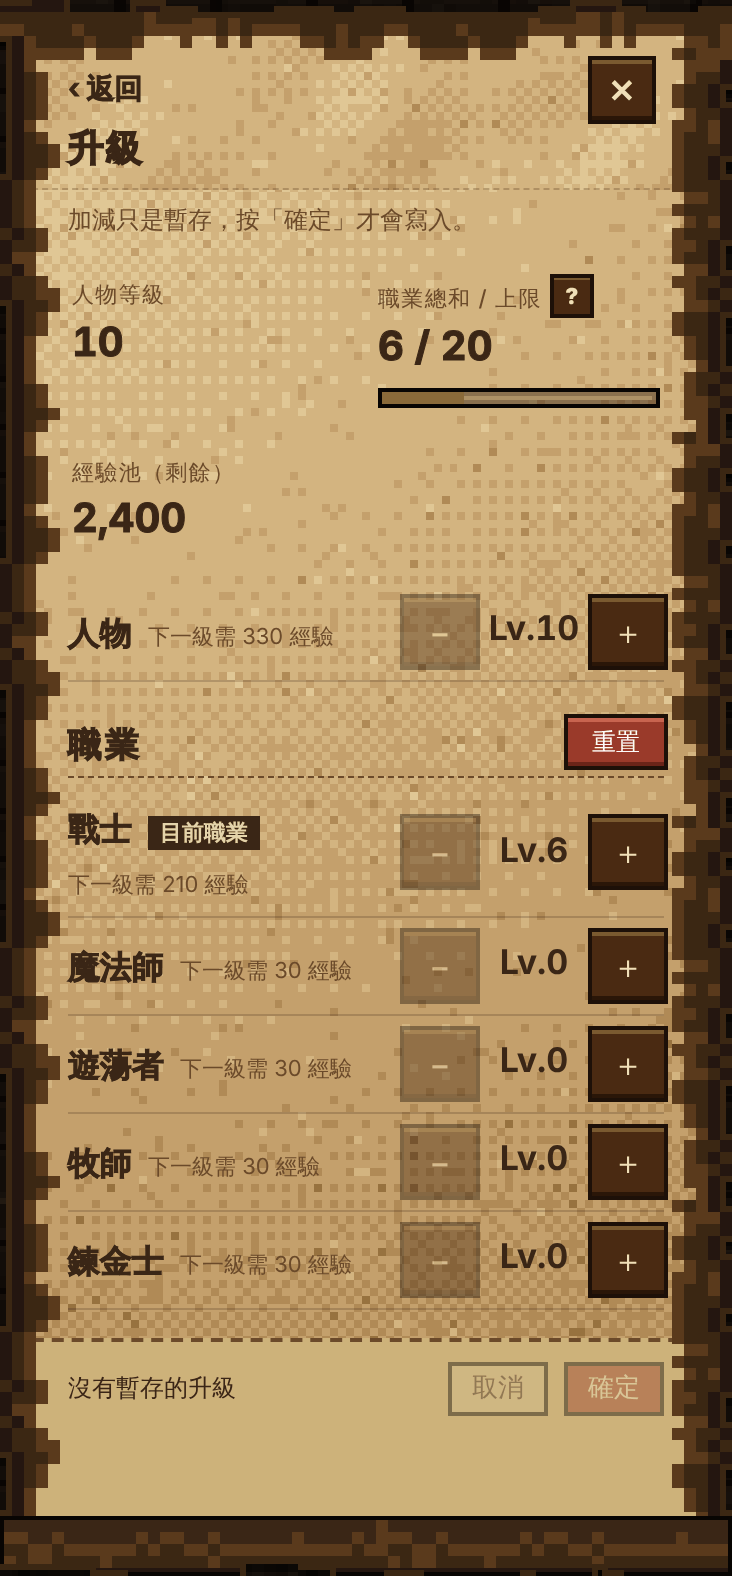
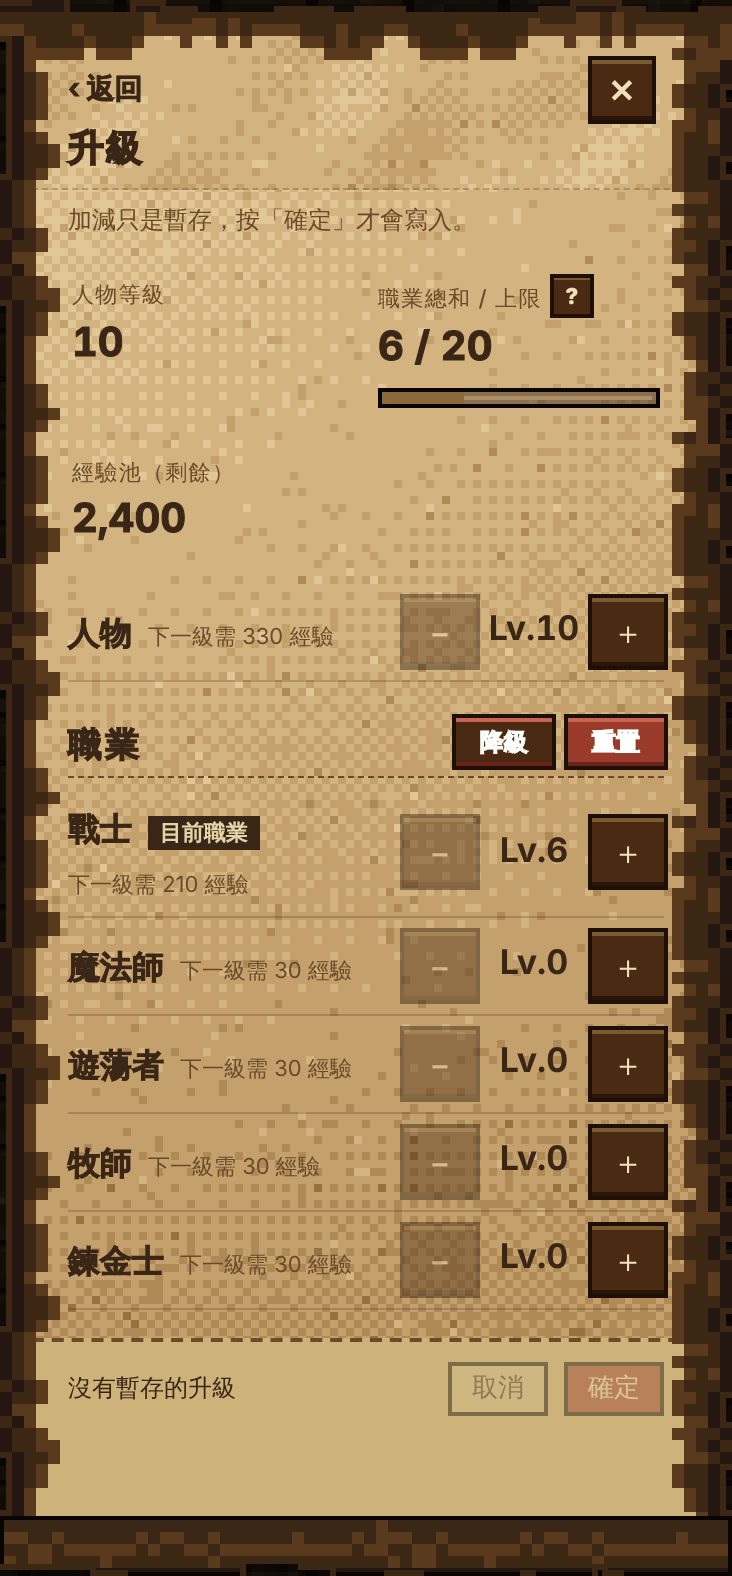
角色頁導覽：重新擷取升級頁（含降級按鈕）並補上降級說明
Claude-Session: https://claude.ai/code/session_019AjetoHBUzNNZUvoSfpCgP

Changed region(s): [[0.6011, 0.4353, 0.7814, 0.4975], [0.8115, 0.4353, 0.8716, 0.4975]]

diff --git a/character/index.html b/character/index.html
@@ -934,9 +934,9 @@ Promise.all(['job_info.csv','job_attribute.csv','job_level_up.csv','weapon_info.
 }).catch(function(e){var m=$('loading');m.textContent='資料載入失敗：'+(e.code||e.message);m.classList.add('err')});
 })();
 /* ===== 角色頁導覽：右上角問號；第一次進來自動開一次（記在瀏覽器） ===== */
-var HELP=[{"t":"角色頁總覽","d":"角色頁帳篷裡的五個物件，點了就會打開對應的功能（下方按鈕也可以）。","it":["<b>公會證（升級職業）</b>：可以在此處提升人物的角色和職業等級；當人物達到職業需求的職業等級，可以進行轉職（沒有限制人物可轉的職業數量）","<b>武器架（更換武器）</b>：可以在此處切換角色裝備的武器","<b>人物誌（屬性）</b>：可以查看人物的屬性，並能提升五項基礎屬性的配置","<b>鏡子（外觀）</b>：可在此處更換你的外觀；當你轉成該職業後即可獲得該職業外觀","<b>技能書（技能）</b>：可在此處設置人物可使用的職業技能組、反應技能、被動技能和自動模式下的技能循環"],"img":"char_1.png","bx":[[1,29.23,10.71,13.84,11.43],[2,1.54,33.57,27.69,29.29],[3,46.15,57.14,14.61,10],[4,53.84,11.43,20.77,35],[5,76.15,40,18.46,11.43]]},{"t":"公會證","d":"可以在此處提升人物的角色和職業等級；當人物達到職業需求的職業等級，可以進行轉職（沒有限制人物可轉的職業數量）。","it":["人物等級、職業等級總和／上限，以及經驗池（人物和職業共用同一個經驗池）","目前的職業和職業等級","按「升級」提升等級，按「轉職」更換職業"],"img":"char_2.png","bx":[[1,8.47,30.7,83.06,22.64],[2,8.47,59.28,83.06,7.49],[3,8.47,86.73,83.06,7.9]]},{"t":"公會證：升級","d":"從經驗池扣經驗來升級人物或職業。","it":["人物等級：用 −／＋ 調整要升幾級，左邊會顯示下一級需要多少經驗","職業等級：每個職業分開升級；職業等級總和不能超過人物等級的 2 倍","按「確定」才會扣經驗、正式升級；按「取消」放棄這次的調整"],"img":"char_3.png","bx":[[1,8.47,36.68,83.06,6.98],[2,8.47,49.75,83.06,33.69],[3,60.38,85.98,31.15,4.25]]},{"t":"公會證：轉職","d":"達到條件就能轉職，轉職沒有次數限制，也不會失去已經練好的職業等級。","it":["點選職業可以預覽角色穿上該職業的樣子","基礎職業：顯示「可轉職」就能直接轉","一轉職業：要先把需求的職業練到指定等級，沒達到會顯示「未達成」","轉職樹：查看所有職業的轉職路線和條件"],"img":"char_4.png","bx":[[1,8.47,16.26,83.06,18.04],[2,8.47,38.94,83.06,14.09],[3,8.47,57.68,83.06,35.64],[4,21.63,7.64,19.13,3.81]]},{"t":"武器架","d":"可以在此處切換角色裝備的武器。","it":["目前裝備中的武器，顯示等級、數值和附魔的符文","按「裝備」就能換成這把武器","灰色「不可用」的武器，目前的職業不能裝備"],"img":"char_5.png","bx":[[1,8.47,9.19,83.06,10.35],[2,8.47,18.99,83.06,10.35],[3,8.47,28.79,83.06,10.35]]},{"t":"人物誌","d":"可以查看人物的屬性，並能提升五項基礎屬性的配置。","it":["用 −／＋ 把自由點數分配到力量、智力、敏捷、體質、幸運","點屬性名稱可以看這項數值是從哪裡加來的","「重置」把已經配好的點數全部退回重配","加減只是暫存，按「確定」才會生效"],"img":"char_6.png","bx":[[1,62.62,11.97,28.91,15.66],[2,8.47,11.81,53.06,2.79],[3,76.78,8.73,14.75,2.2],[4,60.38,91.9,31.15,2.46]]},{"t":"鏡子","d":"可在此處更換你的外觀；當你轉成該職業後即可獲得該職業外觀。","it":["鏡子裡即時預覽換上的樣子","選擇衣服、髮型、髮色、膚色、眼色；還沒解鎖的也能預覽，但不能儲存","按「儲存」換上新外觀，「還原」回到目前的外觀"],"img":"char_7.png","bx":[[1,1.37,8.53,60.66,76.81],[2,62.57,8.53,36.07,67.35],[3,1.37,85.9,97.27,8.72]]},{"t":"技能書","d":"可在此處設置人物可使用的職業技能組、反應技能、被動技能和自動模式下的技能循環。","it":["技能組：現職技能組＋最多兩組額外技能組，決定戰鬥中能用哪些主動技能","戰鬥技能：自動戰鬥時依序循環施放，用 ▲▼ 調整順序（只能放上方技能組裡的技能）","反應技能：敵人對你使用傷害技能時有機率觸發","被動技能：人物 Lv1／30／60／90 依序開放格子；按「儲存」後從下一場戰鬥開始生效"],"img":"char_8.png","bx":[[1,8.47,19.78,83.06,10.52],[2,8.47,38.56,83.06,19.87],[3,8.47,61.35,83.06,4.97],[4,8.47,69.24,83.06,19.87]]}],helpI=0;
+var HELP=[{"t":"角色頁總覽","d":"角色頁帳篷裡的五個物件，點了就會打開對應的功能（下方按鈕也可以）。","it":["<b>公會證（升級職業）</b>：可以在此處提升人物的角色和職業等級；當人物達到職業需求的職業等級，可以進行轉職（沒有限制人物可轉的職業數量）","<b>武器架（更換武器）</b>：可以在此處切換角色裝備的武器","<b>人物誌（屬性）</b>：可以查看人物的屬性，並能提升五項基礎屬性的配置","<b>鏡子（外觀）</b>：可在此處更換你的外觀；當你轉成該職業後即可獲得該職業外觀","<b>技能書（技能）</b>：可在此處設置人物可使用的職業技能組、反應技能、被動技能和自動模式下的技能循環"],"img":"char_1.png","bx":[[1,29.23,10.71,13.84,11.43],[2,1.54,33.57,27.69,29.29],[3,46.15,57.14,14.61,10],[4,53.84,11.43,20.77,35],[5,76.15,40,18.46,11.43]]},{"t":"公會證","d":"可以在此處提升人物的角色和職業等級；當人物達到職業需求的職業等級，可以進行轉職（沒有限制人物可轉的職業數量）。","it":["人物等級、職業等級總和／上限，以及經驗池（人物和職業共用同一個經驗池）","目前的職業和職業等級","按「升級」提升等級，按「轉職」更換職業"],"img":"char_2.png","bx":[[1,8.47,30.7,83.06,22.64],[2,8.47,59.28,83.06,7.49],[3,8.47,86.73,83.06,7.9]]},{"t":"公會證：升級／降級","d":"從經驗池扣經驗來升級人物或職業；點錯了也可以單獨把某個職業降級，退還經驗。","it":["人物等級：用 −／＋ 調整要升幾級，左邊會顯示下一級需要多少經驗","職業等級：每個職業分開升級；職業等級總和不能超過人物等級的 2 倍","按「確定」會先列出這次的變動再確認一次，按「確定升級」才會扣經驗；按「取消」放棄這次的調整","降級：按「降級」進入降級模式，用 − 選要降到幾級，按「確定降級」退還那幾級花的經驗，其他職業不受影響；目前職業最低 Lv1，已轉職的職業需要的等級不能降（例如大劍師需要戰士 Lv20）"],"img":"char_3.png","bx":[[1,8.47,36.68,83.06,6.98],[2,8.47,49.75,83.06,33.69],[3,60.38,85.98,31.15,4.25],[4,61.48,45.18,14.75,3.81]]},{"t":"公會證：轉職","d":"達到條件就能轉職，轉職沒有次數限制，也不會失去已經練好的職業等級。","it":["點選職業可以預覽角色穿上該職業的樣子","基礎職業：顯示「可轉職」就能直接轉","一轉職業：要先把需求的職業練到指定等級，沒達到會顯示「未達成」","轉職樹：查看所有職業的轉職路線和條件"],"img":"char_4.png","bx":[[1,8.47,16.26,83.06,18.04],[2,8.47,38.94,83.06,14.09],[3,8.47,57.68,83.06,35.64],[4,21.63,7.64,19.13,3.81]]},{"t":"武器架","d":"可以在此處切換角色裝備的武器。","it":["目前裝備中的武器，顯示等級、數值和附魔的符文","按「裝備」就能換成這把武器","灰色「不可用」的武器，目前的職業不能裝備"],"img":"char_5.png","bx":[[1,8.47,9.19,83.06,10.35],[2,8.47,18.99,83.06,10.35],[3,8.47,28.79,83.06,10.35]]},{"t":"人物誌","d":"可以查看人物的屬性，並能提升五項基礎屬性的配置。","it":["用 −／＋ 把自由點數分配到力量、智力、敏捷、體質、幸運","點屬性名稱可以看這項數值是從哪裡加來的","「重置」把已經配好的點數全部退回重配","加減只是暫存，按「確定」才會生效"],"img":"char_6.png","bx":[[1,62.62,11.97,28.91,15.66],[2,8.47,11.81,53.06,2.79],[3,76.78,8.73,14.75,2.2],[4,60.38,91.9,31.15,2.46]]},{"t":"鏡子","d":"可在此處更換你的外觀；當你轉成該職業後即可獲得該職業外觀。","it":["鏡子裡即時預覽換上的樣子","選擇衣服、髮型、髮色、膚色、眼色；還沒解鎖的也能預覽，但不能儲存","按「儲存」換上新外觀，「還原」回到目前的外觀"],"img":"char_7.png","bx":[[1,1.37,8.53,60.66,76.81],[2,62.57,8.53,36.07,67.35],[3,1.37,85.9,97.27,8.72]]},{"t":"技能書","d":"可在此處設置人物可使用的職業技能組、反應技能、被動技能和自動模式下的技能循環。","it":["技能組：現職技能組＋最多兩組額外技能組，決定戰鬥中能用哪些主動技能","戰鬥技能：自動戰鬥時依序循環施放，用 ▲▼ 調整順序（只能放上方技能組裡的技能）","反應技能：敵人對你使用傷害技能時有機率觸發","被動技能：人物 Lv1／30／60／90 依序開放格子；按「儲存」後從下一場戰鬥開始生效"],"img":"char_8.png","bx":[[1,8.47,19.78,83.06,10.52],[2,8.47,38.56,83.06,19.87],[3,8.47,61.35,83.06,4.97],[4,8.47,69.24,83.06,19.87]]}],helpI=0;
 function helpRender(){var o=document.getElementById('helpov');if(!o)return;var P=HELP[helpI];
-  var h='<div class="hpn" role="dialog" aria-modal="true" aria-label="角色頁導覽"><div class="hhd"><b>'+P.t+'</b><small>'+(helpI+1)+' / '+HELP.length+'</small><button type="button" data-h="x" aria-label="關閉">✕</button></div><div class="hbd" id="hbd"><p class="hd">'+P.d+'</p><div class="hfig"><img alt="" src="'+'../assets/help/'+P.img+'?v=1">';
+  var h='<div class="hpn" role="dialog" aria-modal="true" aria-label="角色頁導覽"><div class="hhd"><b>'+P.t+'</b><small>'+(helpI+1)+' / '+HELP.length+'</small><button type="button" data-h="x" aria-label="關閉">✕</button></div><div class="hbd" id="hbd"><p class="hd">'+P.d+'</p><div class="hfig"><img alt="" src="'+'../assets/help/'+P.img+'?v=2">';
   P.bx.forEach(function(b){h+='<span class="hbx" style="left:'+b[1]+'%;top:'+b[2]+'%;width:'+b[3]+'%;height:'+b[4]+'%"><span class="hno">'+b[0]+'</span></span>'});
   h+='</div><ol class="hit">'+P.it.map(function(t,i){return '<li><i>'+(i+1)+'</i><span>'+t+'</span></li>'}).join('')+'</ol></div><div class="hft"><button type="button" data-h="p"'+(helpI?'':' disabled')+'>‹ 上一頁</button><div class="hdots">'+HELP.map(function(x,i){return '<i'+(i===helpI?' class="on"':'')+'></i>'}).join('')+'</div><button type="button" data-h="n">'+(helpI<HELP.length-1?'下一頁 ›':'完成')+'</button></div></div>';
   o.innerHTML=h}
